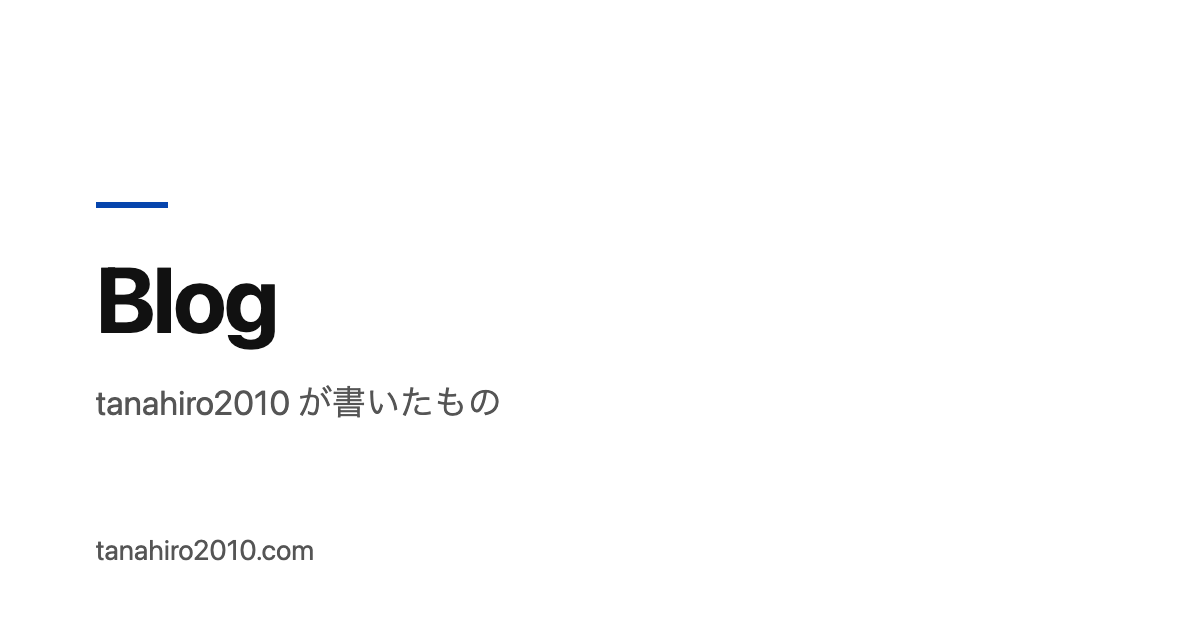
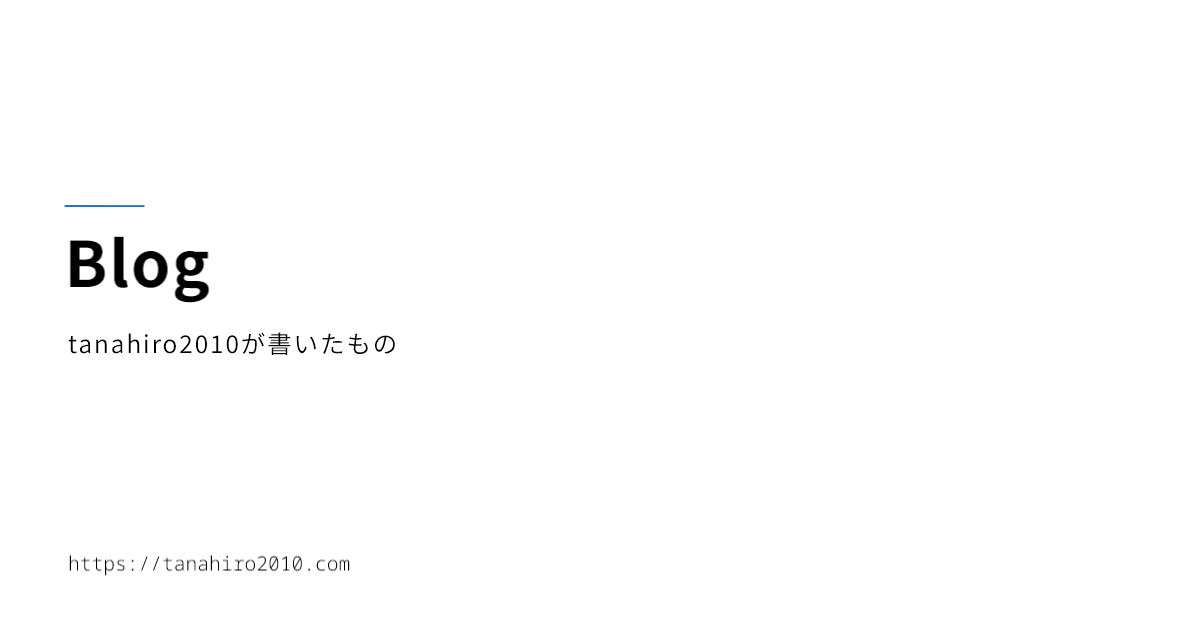
feat(articles): 記事で数式を書けるようにする
`$$` で囲んだブロックを KaTeX でビルド時に HTML + MathML へ変換する。
閲覧側に JS は要らず、式がそのまま HTML に入るので検索にも載る。

インラインの `$...$` は実装していない。記事には PHP の `$search` や
Makefile の `$$(seq ...)` が普通に出てくるので、拾いにいくと本文が壊れる。
実際 PHP の記事は $ 変数だらけで、既存記事を壊さないことを確認済み。

- KaTeX の CSS とフォントは dist/katex/ に自己ホストし、CDN に依存しない
- 読み込むのは数式のあるページだけ
- 式が壊れていてもビルドは止めず、原文を出して警告する

diff --git a/apps/articles/scripts/build-articles.js b/apps/articles/scripts/build-articles.js
@@ -10,6 +10,7 @@ import * as fs from "node:fs";
 import * as path from "node:path";
 import { fileURLToPath } from "node:url";
 import Shiki from "@shikijs/markdown-it";
+import katex from "katex";
 import { blogPostingSchema, breadcrumbSchema, renderHead } from "@tanahiro2010/ssg/head";
 import MarkdownIt from "markdown-it";
 
@@ -45,6 +46,50 @@ md.use(
   }),
 );
 
+/**
+ * `$$` で囲んだ行を数式にする。
+ *
+ * インラインの `$...$` は実装しない。記事には PHP の `$search` や
+ * Makefile の `$$(seq ...)` が普通に出てくるので、拾いにいくと本文が壊れる。
+ * ビルド時に KaTeX で HTML + MathML にするため、閲覧側に JS は要らない。
+ */
+md.block.ruler.before("fence", "math_block", (state, startLine, endLine, silent) => {
+  const open = state.bMarks[startLine] + state.tShift[startLine];
+  const openEnd = state.eMarks[startLine];
+  if (state.src.slice(open, openEnd).trim() !== "$$") return false;
+
+  let line = startLine;
+  while (++line < endLine) {
+    const from = state.bMarks[line] + state.tShift[line];
+    if (state.src.slice(from, state.eMarks[line]).trim() === "$$") break;
+  }
+  if (line >= endLine) return false; // 閉じが無ければ数式として扱わない
+  if (silent) return true;
+
+  const body = state.getLines(startLine + 1, line, state.blkIndent, false).trim();
+  const token = state.push("math_block", "", 0);
+  token.content = body;
+  token.map = [startLine, line + 1];
+  state.line = line + 1;
+  return true;
+});
+
+md.renderer.rules.math_block = (tokens, idx, _options, env) => {
+  env.hasMath = true;
+  try {
+    return `<div class="math-block">${katex.renderToString(tokens[idx].content, {
+      displayMode: true,
+      output: "htmlAndMathml",
+      throwOnError: true,
+      strict: false,
+    })}</div>\n`;
+  } catch (err) {
+    // 数式が壊れていてもビルドは止めない。原文をそのまま出して警告する。
+    console.warn(`  WARN 数式を解釈できませんでした: ${err.message}`);
+    return `<pre class="math-error">${esc(tokens[idx].content)}</pre>\n`;
+  }
+};
+
 // mermaid はコードではなく図。ハイライトせずそのまま渡して、
 // 描画はページ側の mermaid.js に任せる。
 const highlightFence = md.renderer.rules.fence;
@@ -65,12 +110,23 @@ const copyAssets = (srcDir, outDir) => {
   }
 };
 
+const KATEX_LINK = '<link rel="stylesheet" href="/katex/katex.min.css">';
+
+/** KaTeX の CSS とフォントを dist/katex/ に複製する。CDN には頼らない。 */
+const copyKatex = () => {
+  const from = fileURLToPath(new URL("../node_modules/katex/dist", import.meta.url));
+  const to = path.join(distDir, "katex");
+  fs.mkdirSync(to, { recursive: true });
+  fs.copyFileSync(path.join(from, "katex.min.css"), path.join(to, "katex.min.css"));
+  fs.cpSync(path.join(from, "fonts"), path.join(to, "fonts"), { recursive: true });
+};
+
 const MERMAID_SCRIPT = `<script type="module">
 import mermaid from "https://cdn.jsdelivr.net/npm/mermaid@11/dist/mermaid.esm.min.mjs";
 mermaid.initialize({ startOnLoad: true, theme: "neutral" });
 </script>`;
 
-const page = (article, body, hasMermaid) => `<!doctype html>
+const page = (article, body, { hasMermaid, hasMath }) => `<!doctype html>
 <html lang="ja">
 <head>
 <meta charset="utf-8">
@@ -93,6 +149,7 @@ ${renderHead({
   ],
 })}
 <style>${articleCss}</style>
+${hasMath ? KATEX_LINK : ""}
 ${hasMermaid ? MERMAID_SCRIPT : ""}
 </head>
 <body>
@@ -156,9 +213,14 @@ const build = () => {
     const env = {};
     const body = md.render(markdown, env);
 
-    fs.writeFileSync(path.join(outDir, "index.html"), page(article, body, env.hasMermaid));
+    fs.writeFileSync(
+      path.join(outDir, "index.html"),
+      page(article, body, { hasMermaid: env.hasMermaid, hasMath: env.hasMath }),
+    );
     copyAssets(srcDir, outDir);
   }
+
+  copyKatex();
 
   fs.writeFileSync(path.join(distDir, "feed.xml"), feed(articles));
   console.log(`built ${articles.length} article(s) -> dist/articles/ (+ feed.xml)`);

diff --git a/apps/articles/styles/article.css b/apps/articles/styles/article.css
@@ -158,3 +158,16 @@ footer {
   text-align: center;
   overflow-x: auto;
 }
+
+/* 数式。長い式は折り返せないので、横スクロールを許す。 */
+.prose .math-block {
+  margin: 1.8rem 0;
+  overflow-x: auto;
+  overflow-y: hidden;
+  padding: 0.2rem 0;
+}
+
+.prose .math-error {
+  border-color: #c00;
+  color: #c00;
+}

diff --git a/apps/slides/AGENTS.md b/apps/slides/AGENTS.md
@@ -51,6 +51,10 @@ lint / fmt / commit フックの設定はリポジトリルートの `vite.confi
   デッキと URL を揃えたいので slide.md のものを借りる。
 - タイトルは記事の `title:` → 本文先頭の `# 見出し` → フォルダ名。
   見出しをタイトルに使った場合、本文からは落とす。
+- 数式は `$$` で囲んだブロックのみ。KaTeX でビルド時に HTML + MathML にするので
+  閲覧側に JS は要らない。**インラインの `$...$` は実装しない** —
+  記事には PHP の `$search` や Makefile の `$$(seq ...)` が出てくるので壊れる。
+- mermaid は図なのでハイライトせず、描画スクリプトを使う側のページにだけ足す。
 - 本文は `scripts/build-articles.js` が markdown-it + Shiki で HTML にして
   `dist/articles/<slug>/` に置く。React には載せない（載せると本文が
   まるごとクライアントのバンドルに入る）。
